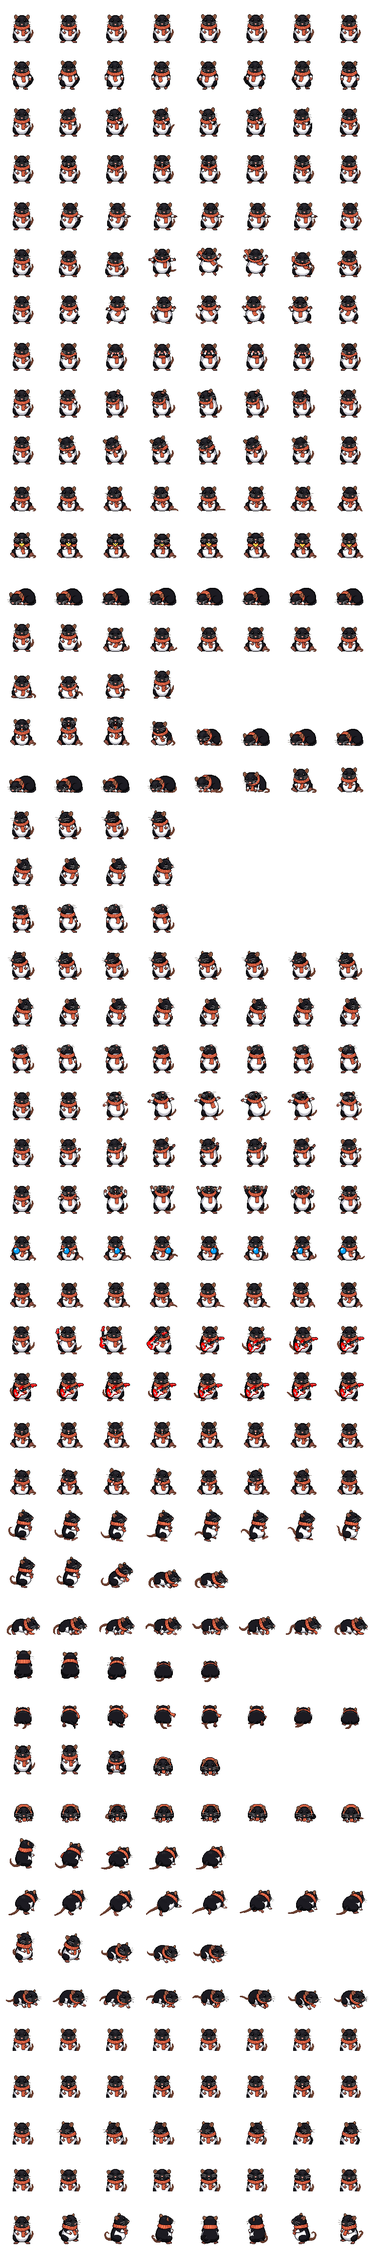
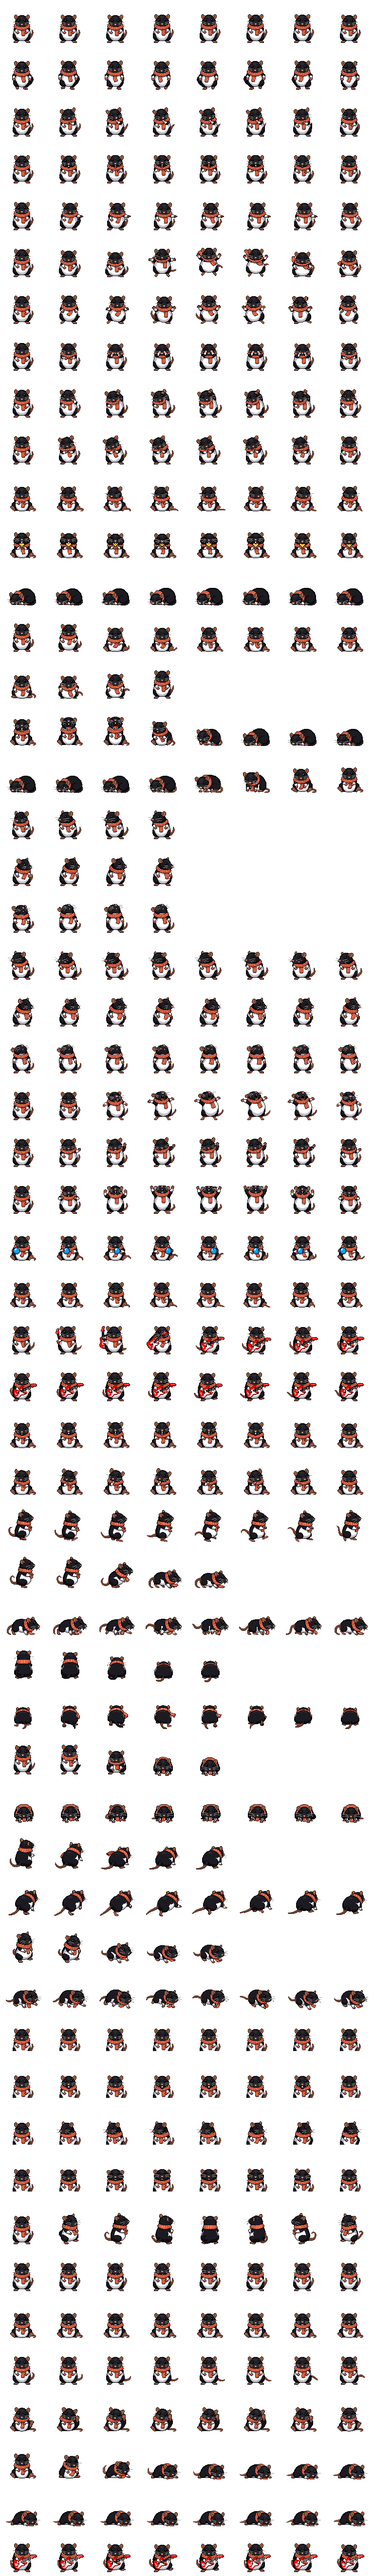
Dengas: idles vivos no lugar das pausas congeladas
Atlas ganha 7 animações (linhas 48-54, PixelLab, 7 gerações): farejando,
sentado_farejando, rabinho, cocando_orelha (pata de trás), t_deitar, deitado
(olho aberto) e baixo_parado. calmo() troca a pausa congelada por vidaCalma():
em pé fareja ou mexe o rabinho; sentado fareja, coça a orelha ou deita um pouco
e levanta; com o baixo, segura sem tocar.

diff --git a/modelos/dengas/dengas.js b/modelos/dengas/dengas.js
@@ -107,7 +107,21 @@ const GRACINHAS_PE = ['espreguicando', 'cocando', 'curioso', 'gracinha', 'brinca
 const GRACINHAS_SENTADO = ['balancando', 'bolinha', 'comendo'];
 function gracinha(lista){ const l = lista.filter(a => a !== ultimaGracinha); const a = sorteia(l); ultimaGracinha = a; return a; }
 // o laço calmo: uma volta devagar, depois parado num quadro por uns segundos
-const calmo = a => [clip(a, { ritmo:.6 }), clip(a, { segura:rnd(1800, 5200) })];
+const calmo = a => [clip(a, { ritmo:.6 }), ...vidaCalma(a)];
+// no lugar da pausa congelada, um idle vivo: em pé fareja ou mexe o rabinho; sentado fareja, coça a orelha com a pata
+// de trás ou deita um pouco de olho aberto e levanta (o levantar é o deitar ao contrário)
+function vidaCalma(a){
+  const r = Math.random();
+  if (a === 'parado'){
+    if (r < .5) return [clip('farejando', { ritmo:.8 })];
+    if (r < .8) return [clip('rabinho', { ritmo:.6 }), clip('rabinho', { ritmo:.6, rev:true })];
+    return [clip(a, { segura:rnd(900, 1800) })];
+  }
+  if (r < .45) return [clip('sentado_farejando', { ritmo:.8 })];
+  if (r < .58) return [clip('cocando_orelha', { ritmo:.9 })];
+  if (r < .72){ const ate = performance.now() + rnd(8000, 20000); return [clip('t_deitar', { ritmo:.7 }), clip('deitado', { ritmo:.6, laco:() => performance.now() < ate && !D.pego && D.modo === 'parado' && D.pose === 'sentado' }), clip('t_deitar', { ritmo:.7, rev:true })]; }
+  return [clip(a, { segura:rnd(900, 1800) })];
+}
 function zonaOlhar(now){ if (now - D.mouse.at > 2600) return ''; const dx = D.mouse.x - D.x, dy = D.mouse.y - (D.y - 70); if (Math.hypot(dx, dy) < 130) return ''; if (dy < 0 && -dy > Math.abs(dx) * 1.2) return 'cima'; return dx < 0 ? 'esq' : 'dir'; }
 function proximos(now){
   const fala = now < D.falandoAte;
@@ -118,7 +132,7 @@ function proximos(now){
   if (D.baixo){
     // com o baixo: toca um pouco, para segurando o baixo, toca de novo
     if (fala || D.pensando) return [clip('tocando_baixo', { segura:900 })];
-    return Math.random() < .55 ? [clip('tocando_baixo', { ritmo:.75 }), clip('tocando_baixo', { ritmo:.75 })] : [clip('tocando_baixo', { segura:rnd(1500, 4000) })];
+    return Math.random() < .55 ? [clip('tocando_baixo', { ritmo:.75 }), clip('tocando_baixo', { ritmo:.75 })] : [clip('baixo_parado', { ritmo:.7 }), clip('baixo_parado', { ritmo:.7 })];   // segura o baixo sem tocar: respira, bate o pezinho
   }
   if (D.pose === 'sentado'){
     if (D.dorme) return [clip('dormindo', { ritmo:.7 })];
@@ -158,7 +172,7 @@ function senta(sim){
 }
 function desenha(now){
   const k = (D.bolinha ? 'b' : '') + (D.baixo ? 'B' : '') + (D.dorme ? 'z' : '') + D.modo + D.pose + (D.pensando ? 't' : '') + (now < D.falandoAte ? 'f' : '') + (D.pego ? 'd' : '');
-  if (k !== chave){ if (chave && ![atual, clipes[0]].some(q => q && /^t_(parado_sentado|sentado_parado|quatro_\w+|baixo|sentado_dormindo|dormindo_sentado)$/.test(q.a))) { clipes = []; atual = null; } chave = k; }
+  if (k !== chave){ if (chave && ![atual, clipes[0]].some(q => q && /^t_(parado_sentado|sentado_parado|quatro_\w+|baixo|sentado_dormindo|dormindo_sentado|deitar)$/.test(q.a))) { clipes = []; atual = null; } chave = k; }
   let m = atual && AT.anims[atual.a], c = m ? Math.floor((now - atual.t0) * m.fps * (atual.ritmo || 1) / 1000) : 0;
   if (m && atual.segura) c = now - atual.t0 < atual.segura ? 0 : m.n;
   if (!m || c >= m.n){
